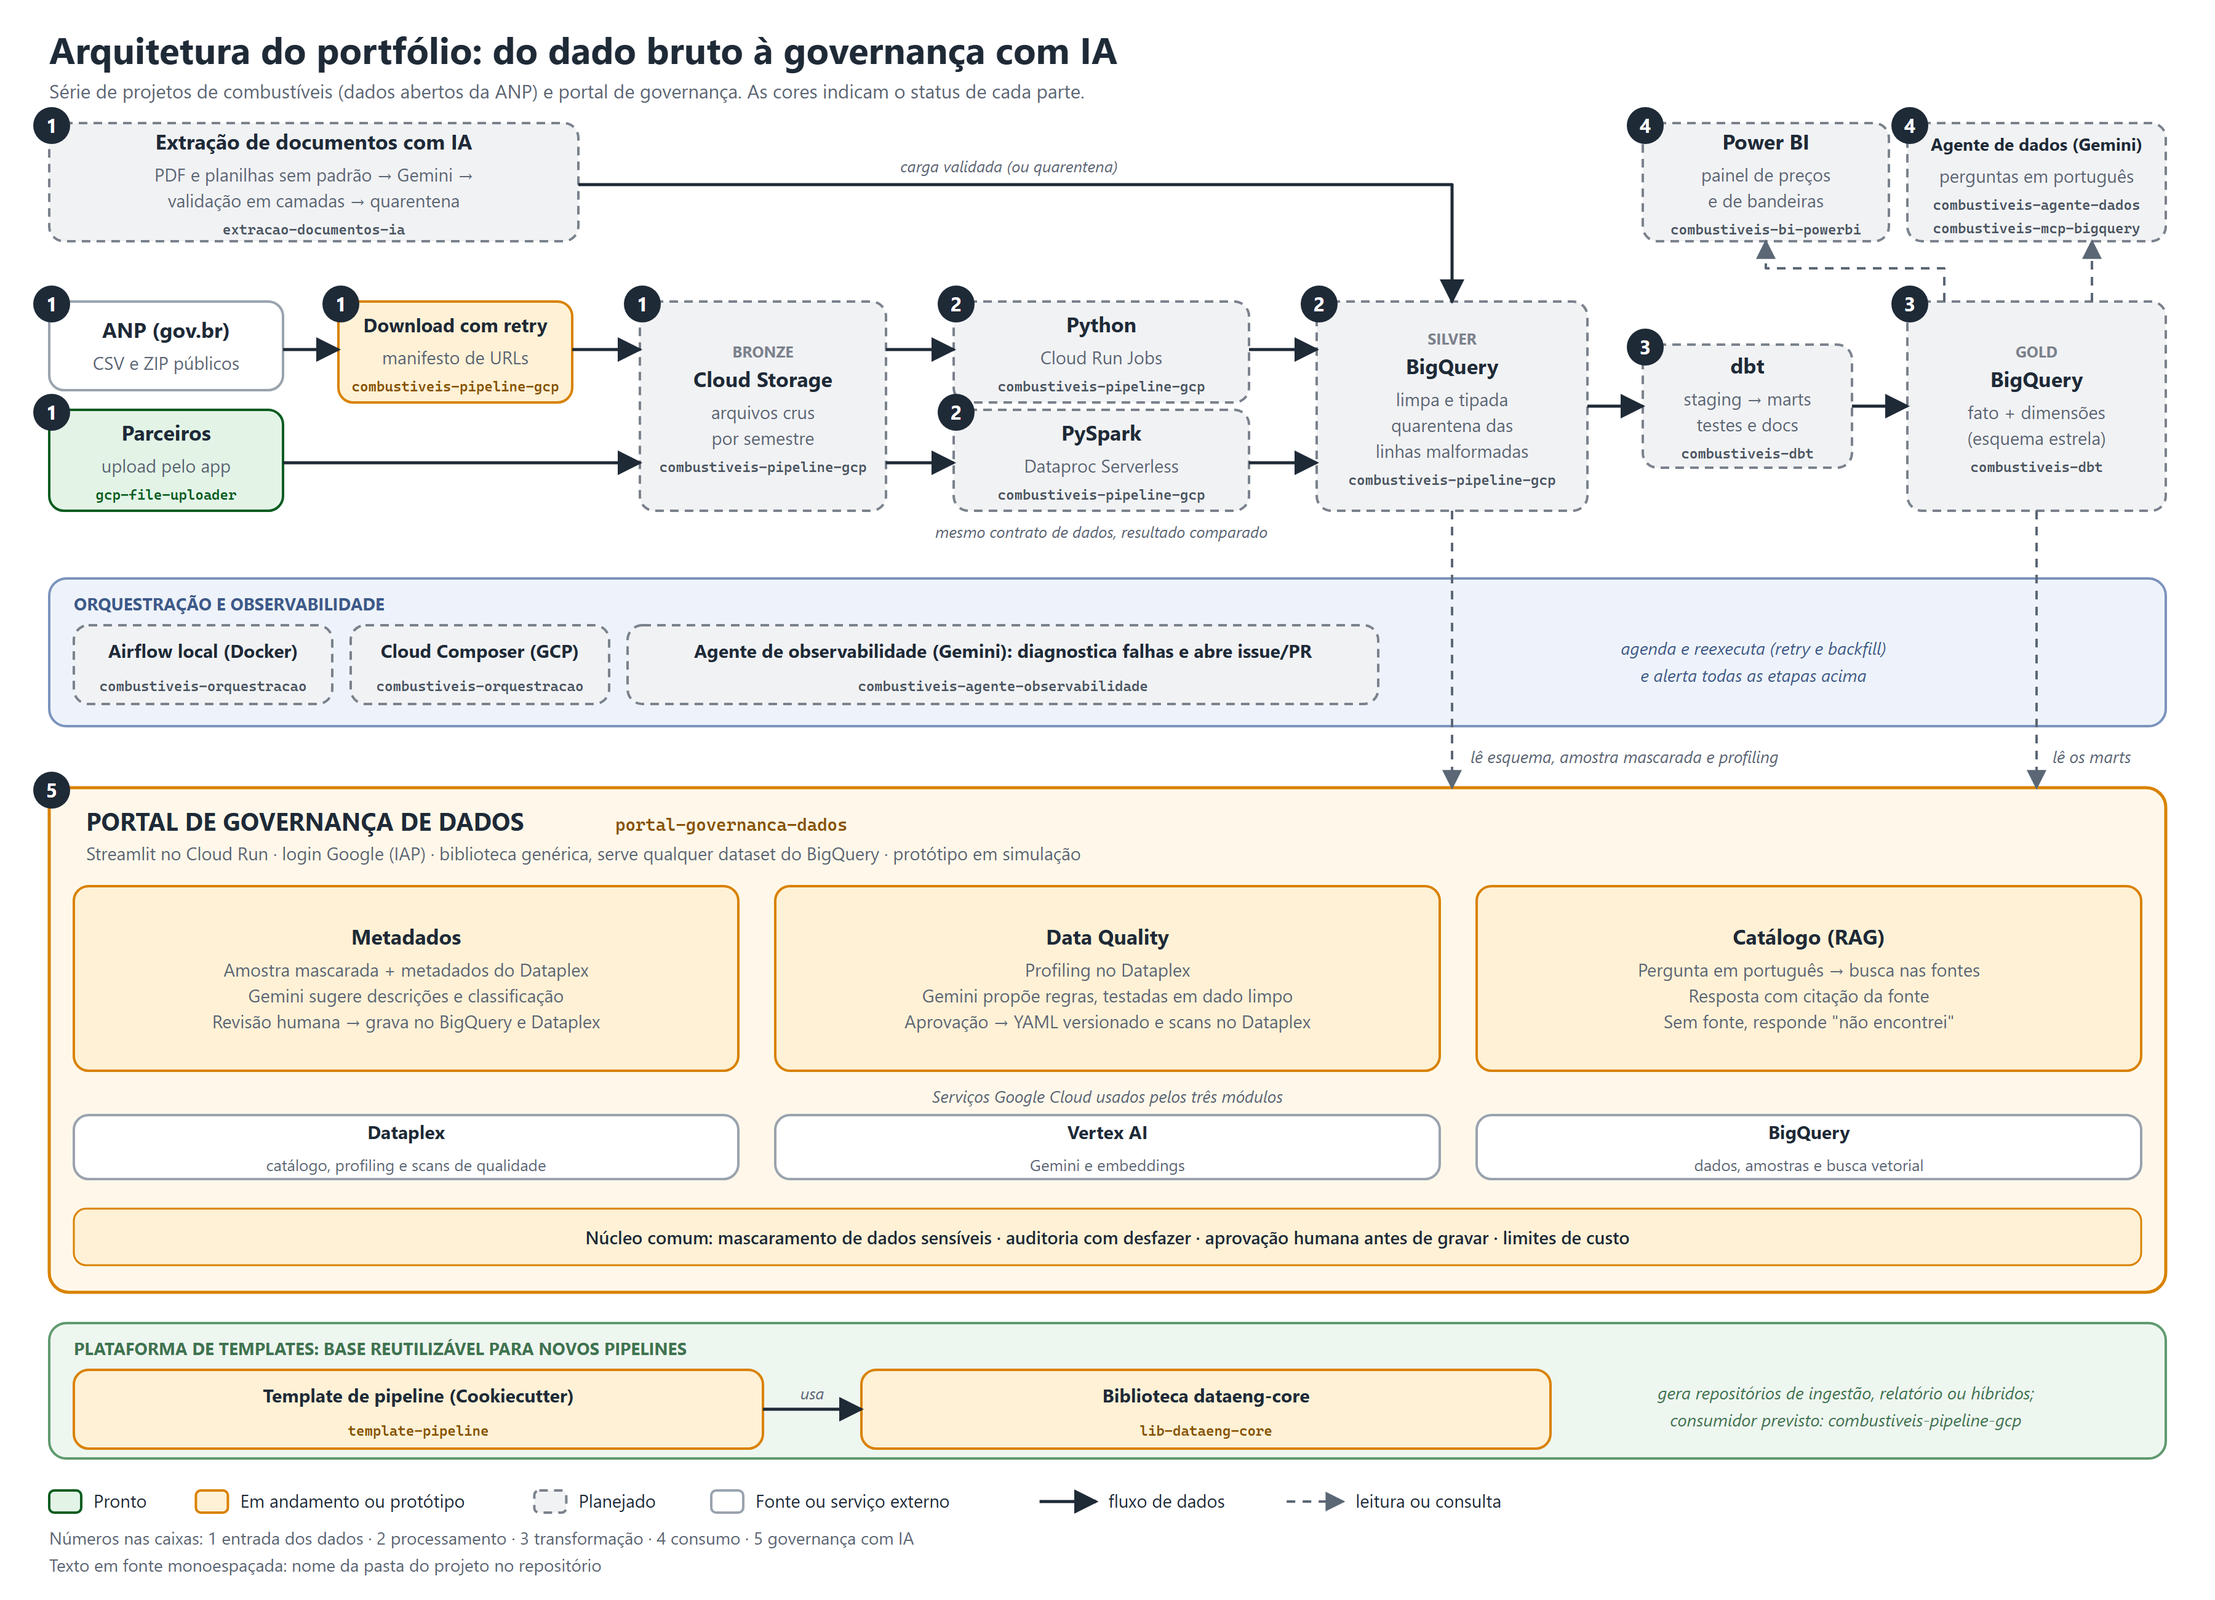
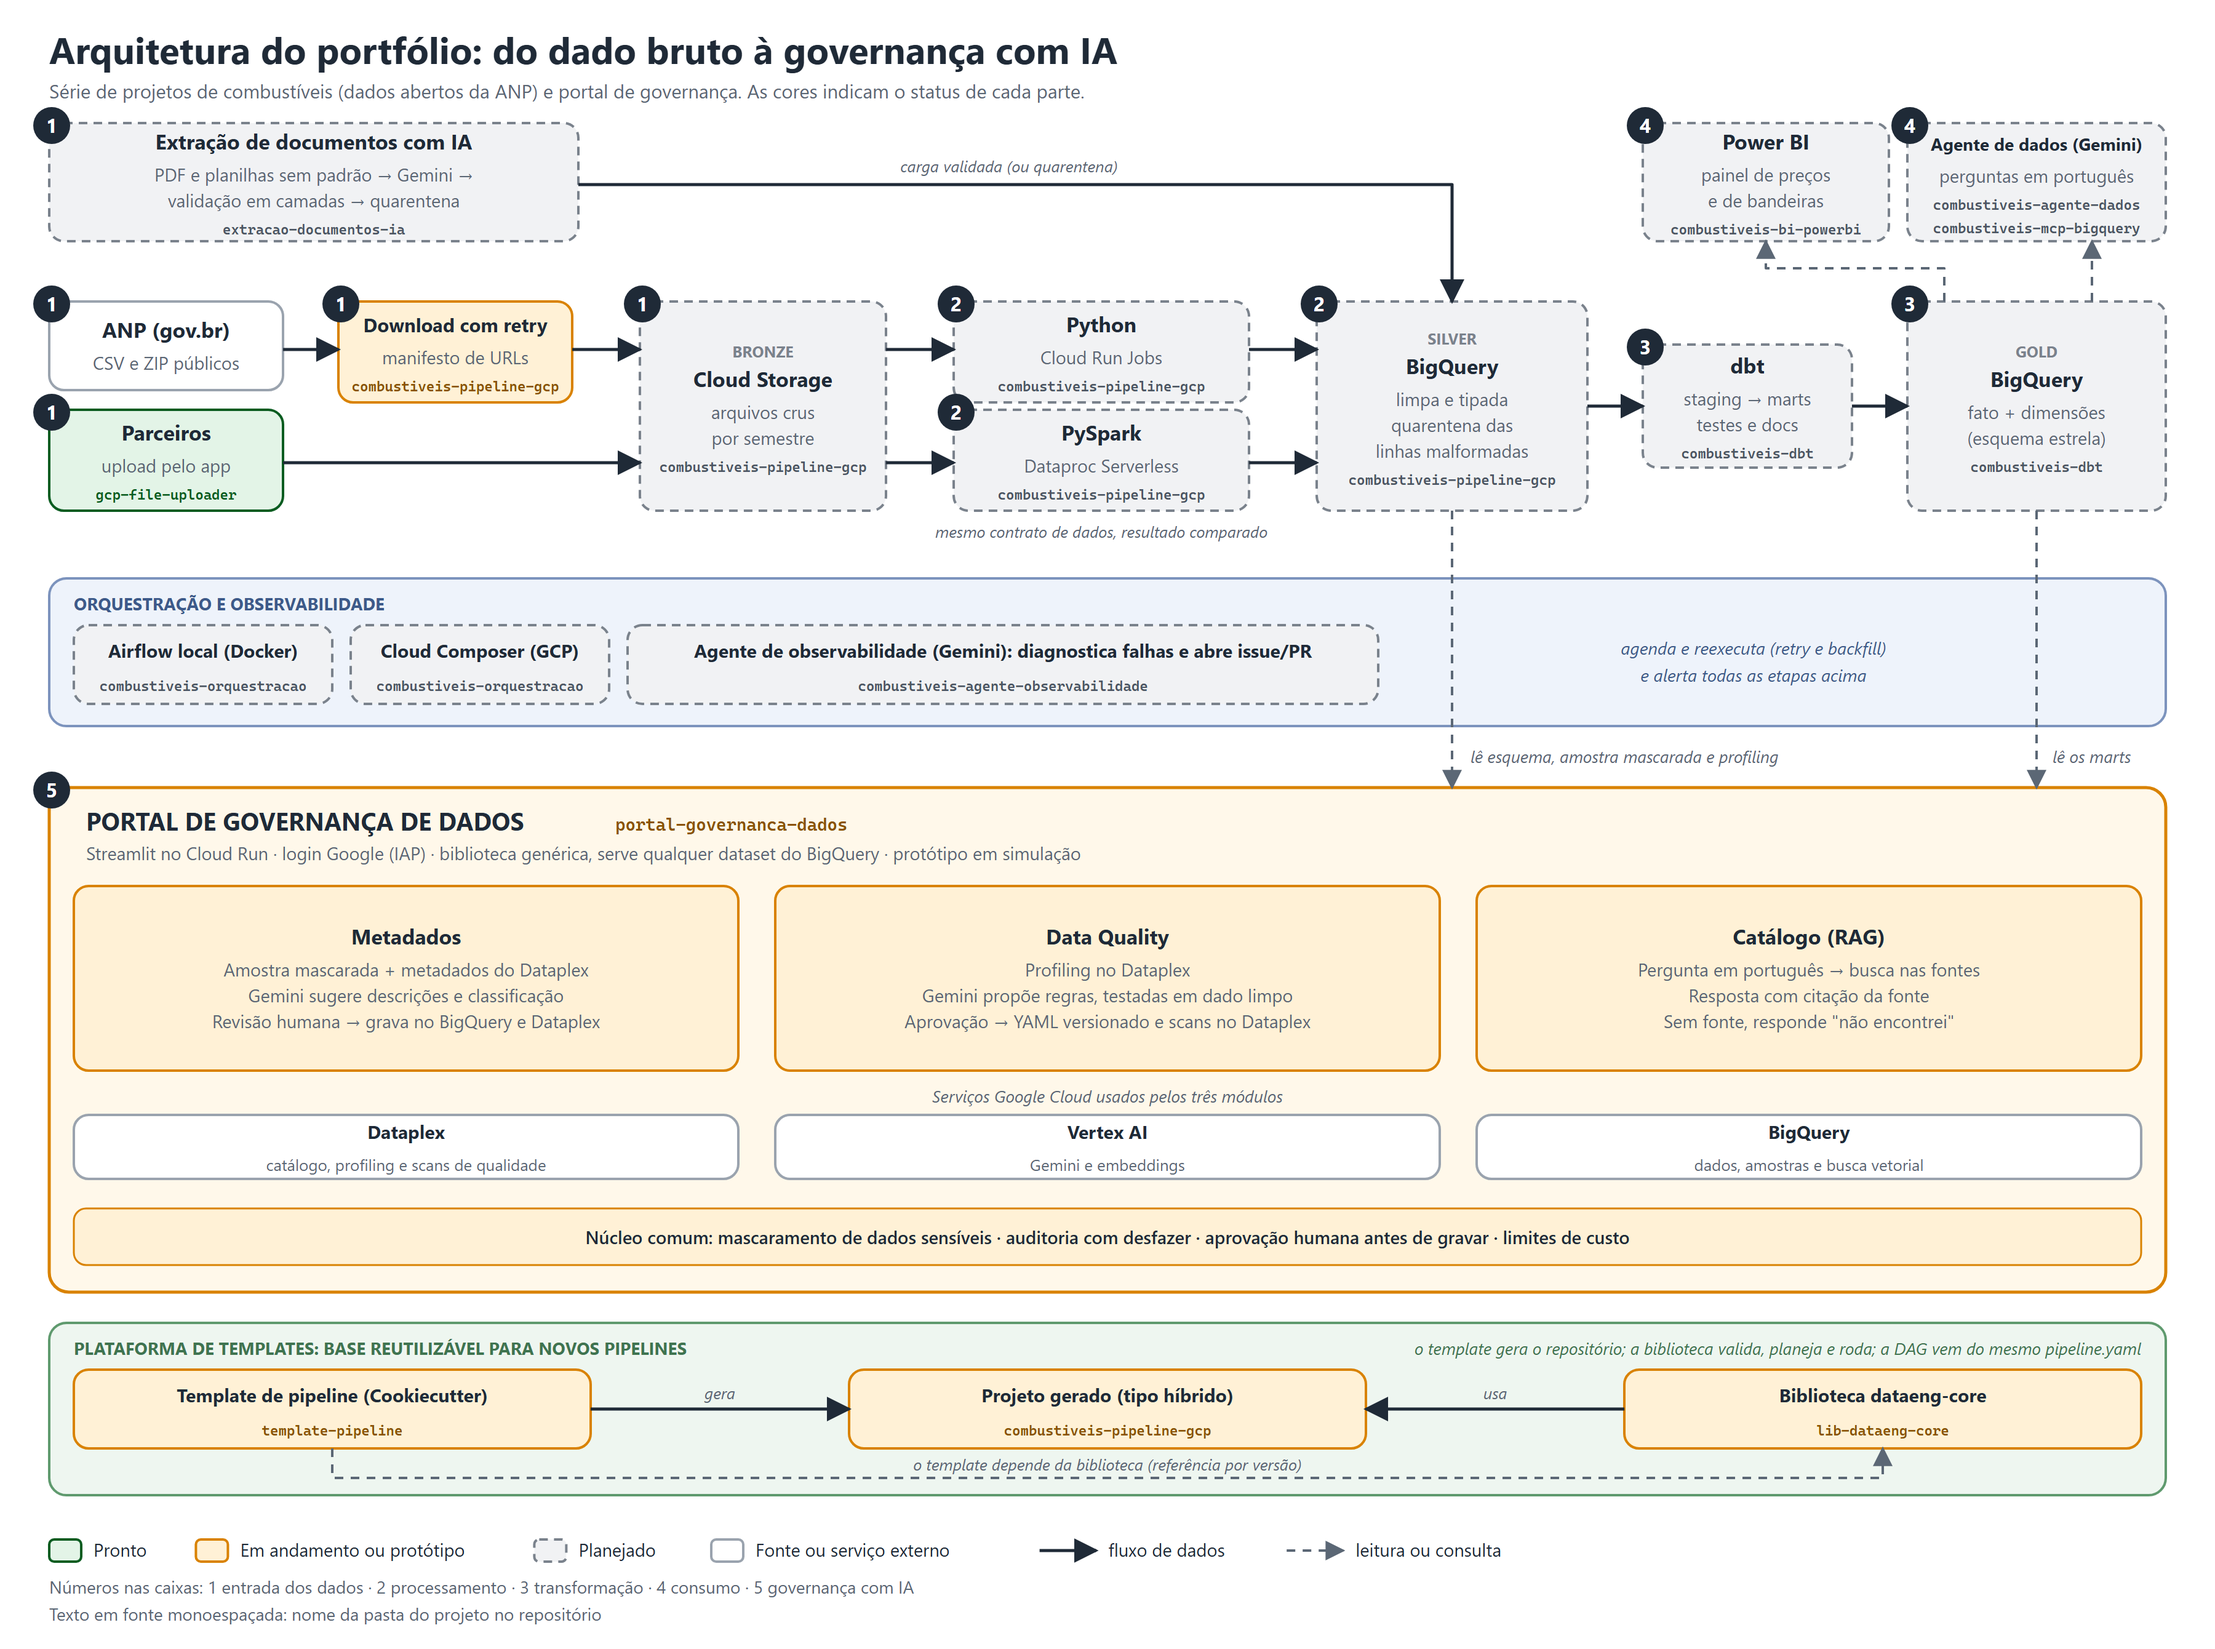
docs: README e arquitetura mostram o combustiveis-pipeline-gcp gerado pelo template

diff --git a/docs/gerar_arquitetura.py b/docs/gerar_arquitetura.py
@@ -8,13 +8,13 @@ troque o status da caixa correspondente: "pronto", "andamento", "planejado" ou "
 Para gerar o PNG usado no README (Edge, em Git Bash, a partir da raiz do repositório):
 
     "/c/Program Files (x86)/Microsoft/Edge/Application/msedge.exe" --headless --disable-gpu \
-      --hide-scrollbars --force-device-scale-factor=2 --window-size=1800,1300 \
+      --hide-scrollbars --force-device-scale-factor=2 --window-size=1800,1340 \
       --screenshot="$(pwd -W)/docs/arquitetura.png" "file:///$(pwd -W)/docs/arquitetura.svg"
 """
 import sys
 from xml.sax.saxutils import escape
 
-W, H = 1800, 1300
+W, H = 1800, 1340
 FONT = "'Segoe UI', 'Helvetica Neue', Arial, sans-serif"
 MONO = "'Cascadia Mono', Consolas, 'Courier New', monospace"
 INK, MUTED = "#1F2A37", "#5B6775"
@@ -177,17 +177,22 @@ text(1668, PT - 20, "lê os marts", size=13.5, fill=MUTED, anchor="start", style
 
 # ---------- plataforma de templates ----------
 TY = 1075  # topo da faixa da plataforma
-add(f'<rect x="40" y="{TY}" width="1720" height="110" rx="14" fill="#EEF6F0" stroke="#5F9A6E" stroke-width="2"/>')
+add(f'<rect x="40" y="{TY}" width="1720" height="140" rx="14" fill="#EEF6F0" stroke="#5F9A6E" stroke-width="2"/>')
 text(60, TY + 26, "PLATAFORMA DE TEMPLATES: BASE REUTILIZÁVEL PARA NOVOS PIPELINES", size=14, weight="700", fill="#3F7450", anchor="start")
-box(60, TY + 38, 560, 64, "andamento", "Template de pipeline (Cookiecutter)", title_size=15, project="template-pipeline")
-box(700, TY + 38, 560, 64, "andamento", "Biblioteca dataeng-core", title_size=15, project="lib-dataeng-core")
-arrow([(620, TY + 70), (700, TY + 70)])
-text(660, TY + 62, "usa", size=13, fill=MUTED, style="italic")
-text(1500, TY + 62, "gera repositórios de ingestão, relatório ou híbridos;", size=14, fill="#3F7450", style="italic")
-text(1500, TY + 84, "consumidor previsto: combustiveis-pipeline-gcp", size=14, fill="#3F7450", style="italic")
+text(1740, TY + 26, "o template gera o repositório; a biblioteca valida, planeja e roda; a DAG vem do mesmo pipeline.yaml",
+     size=13.5, fill="#3F7450", anchor="end", style="italic")
+box(60, TY + 38, 420, 64, "andamento", "Template de pipeline (Cookiecutter)", title_size=15, project="template-pipeline")
+box(690, TY + 38, 420, 64, "andamento", "Projeto gerado (tipo híbrido)", title_size=15, project=PIPE)
+box(1320, TY + 38, 420, 64, "andamento", "Biblioteca dataeng-core", title_size=15, project="lib-dataeng-core")
+arrow([(480, TY + 70), (690, TY + 70)])
+text(585, TY + 62, "gera", size=13, fill=MUTED, style="italic")
+arrow([(1320, TY + 70), (1110, TY + 70)])
+text(1215, TY + 62, "usa", size=13, fill=MUTED, style="italic")
+arrow([(270, TY + 102), (270, TY + 126), (1530, TY + 126), (1530, TY + 102)], dashed=True, color=MUTED, width=2)
+text(900, TY + 120, "o template depende da biblioteca (referência por versão)", size=13, fill=MUTED, style="italic")
 
 # ---------- legenda ----------
-LY = 1225
+LY = 1265
 x = 40
 for status, label in (("pronto", "Pronto"), ("andamento", "Em andamento ou protótipo"), ("planejado", "Planejado"), ("externo", "Fonte ou serviço externo")):
     fill, stroke, dash, _ = STATUS[status]

diff --git a/README.md b/README.md
@@ -55,7 +55,7 @@ Cada pasta deste repositório é um projeto independente, com o próprio README,
 | | Projeto | O que faz | Tecnologias | Status |
 |:-:|---|---|---|:-:|
 | ☁ | **[GCP File Uploader](gcp-file-uploader/)** | App desktop que permite a qualquer pessoa enviar arquivos para um bucket do Google Cloud Storage com poucos cliques, sem console nem linha de comando. | `Python` `CustomTkinter` `Google Cloud Storage` | ✅ Pronto |
-| ⛽ | **[Pipeline de Preços de Combustíveis no GCP](combustiveis-pipeline-gcp/)** | ELT dos dados abertos da ANP até o BigQuery, implementado em **Python (Cloud Run)** e em **PySpark (Dataproc)**, com comparativo de custo e tempo. | `Python` `PySpark` `Cloud Run` `Dataproc` `BigQuery` | 🔨 Em andamento |
+| ⛽ | **[Pipeline de Preços de Combustíveis no GCP](combustiveis-pipeline-gcp/)** | ELT dos dados abertos da ANP até o BigQuery, implementado em **Python (Cloud Run)** e em **PySpark (Dataproc)**, com comparativo de custo e tempo. Gerado a partir do [`template-pipeline`](template-pipeline/) (tipo `hibrido`) e usa a `dataeng-core`; GCP, Spark e dados reais da ANP ainda não validados. | `Python` `PySpark` `Cloud Run` `Dataproc` `BigQuery` | 🔨 Em andamento |
 | 🧱 | **[Modelagem Dimensional com dbt](combustiveis-dbt/)** | Esquema estrela, testes automáticos e documentação com linhagem sobre os dados de combustíveis. | `dbt` `BigQuery` `SQL` | 🚧 Planejado |
 | 🎼 | **[Orquestração com Airflow e Composer](combustiveis-orquestracao/)** | O mesmo DAG rodando no Airflow local e no Cloud Composer, com retries, backfill e alertas. | `Airflow` `Cloud Composer` `Docker` | 🚧 Planejado |
 | 📊 | **[Painel de Combustíveis no Power BI](combustiveis-bi-powerbi/)** | Painel sobre o modelo dimensional, que responde onde o combustível está mais caro e quando compensa o etanol. | `Power BI` `DAX` `BigQuery` | 🚧 Planejado |
@@ -70,7 +70,7 @@ Cada pasta deste repositório é um projeto independente, com o próprio README,
 
 > ⛽ Os projetos `combustiveis-*` formam **uma única história**: do arquivo cru da ANP ao painel de decisão e, depois, a uma IA que responde perguntas sobre os dados com segurança.
 >
-> 🧩 `lib-dataeng-core` e `template-pipeline` são a **plataforma de templates**: a biblioteca guarda o que se repete entre pipelines e o template gera um repositório novo a partir dela. Foram implementados e testados com a versão local (DuckDB e Pub/Sub em memória); a execução no GCP, no Airflow e no Spark **ainda não foi validada**, e o CI (GitHub Actions) e o `docker build` **nunca foram executados**. O desenho está na [especificação](docs/superpowers/specs/2026-10-19-templates-e-bibliotecas-de-engenharia-design.md).
+> 🧩 `lib-dataeng-core` e `template-pipeline` são a **plataforma de templates**: a biblioteca guarda o que se repete entre pipelines e o template gera um repositório novo a partir dela. O primeiro uso real é o [`combustiveis-pipeline-gcp`](combustiveis-pipeline-gcp/): foi **gerado pelo `template-pipeline`** (tipo `hibrido`) e **usa a `dataeng-core`**. O template gera o repositório, a biblioteca executa (validar, planejar e rodar) e a DAG é montada a partir do mesmo `pipeline.yaml`; hoje isso roda local, com amostra sintética. Foram implementados e testados com a versão local (DuckDB e Pub/Sub em memória); a execução no GCP, no Airflow e no Spark **ainda não foi validada**, e o CI (GitHub Actions) e o `docker build` **nunca foram executados**. O desenho está na [especificação](docs/superpowers/specs/2026-10-19-templates-e-bibliotecas-de-engenharia-design.md).
 
 ---
 
@@ -125,7 +125,7 @@ python gcp-file-uploader/src/main.py
 ```text
 tanc-portifolio/
 ├── 📁 gcp-file-uploader/            ☁  Upload de arquivos para o Google Cloud Storage
-├── 📁 combustiveis-pipeline-gcp/    ⛽  ELT da ANP até o BigQuery (Python e PySpark)
+├── 📁 combustiveis-pipeline-gcp/    ⛽  ELT da ANP até o BigQuery (Python e PySpark); gerado pelo template-pipeline, usa lib-dataeng-core
 ├── 📁 combustiveis-dbt/             🧱  Modelagem dimensional com dbt
 ├── 📁 combustiveis-orquestracao/    🎼  Airflow local e Cloud Composer
 ├── 📁 combustiveis-bi-powerbi/      📊  Painel no Power BI
